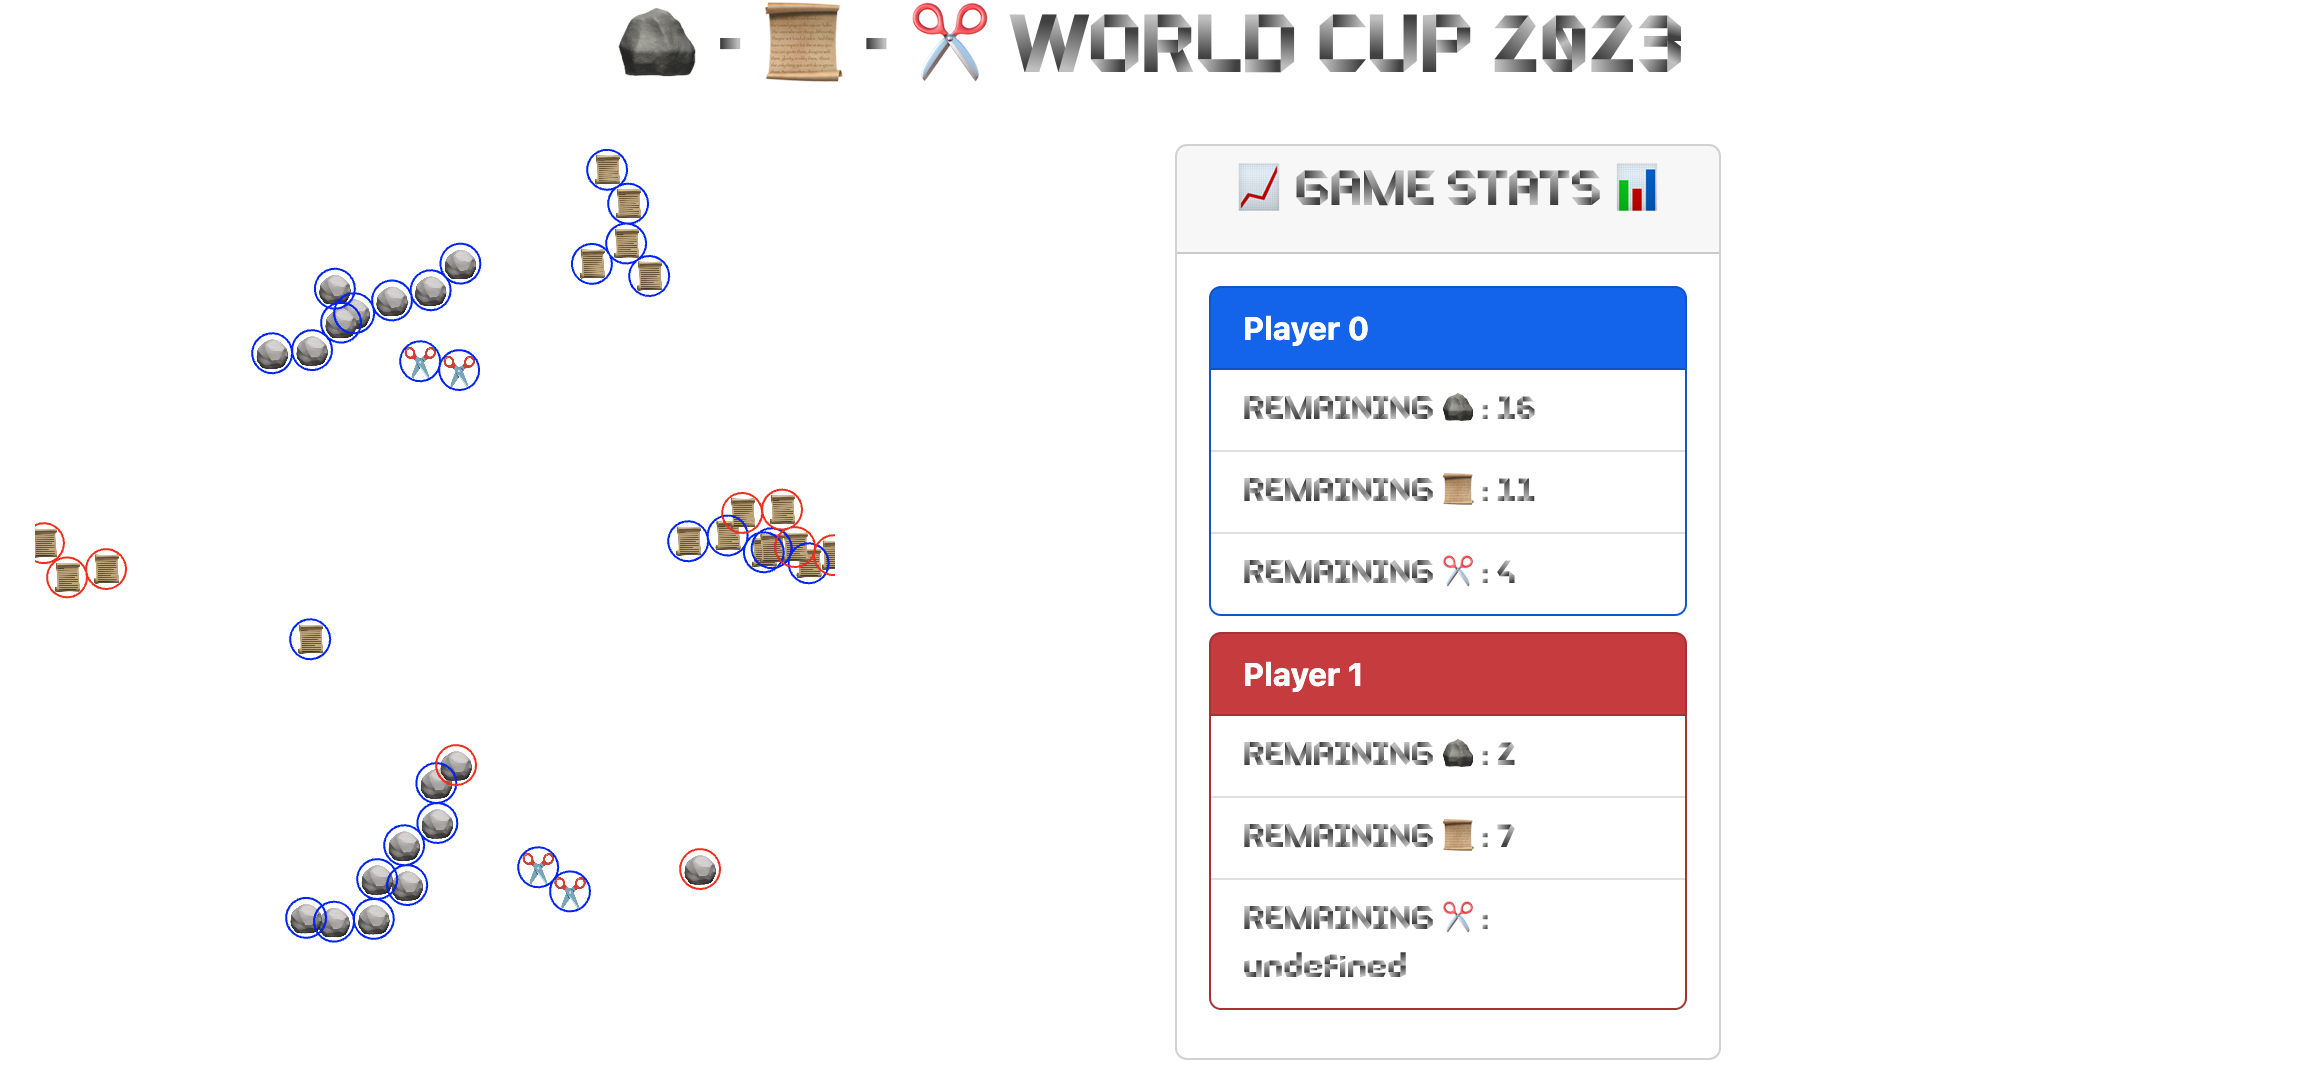
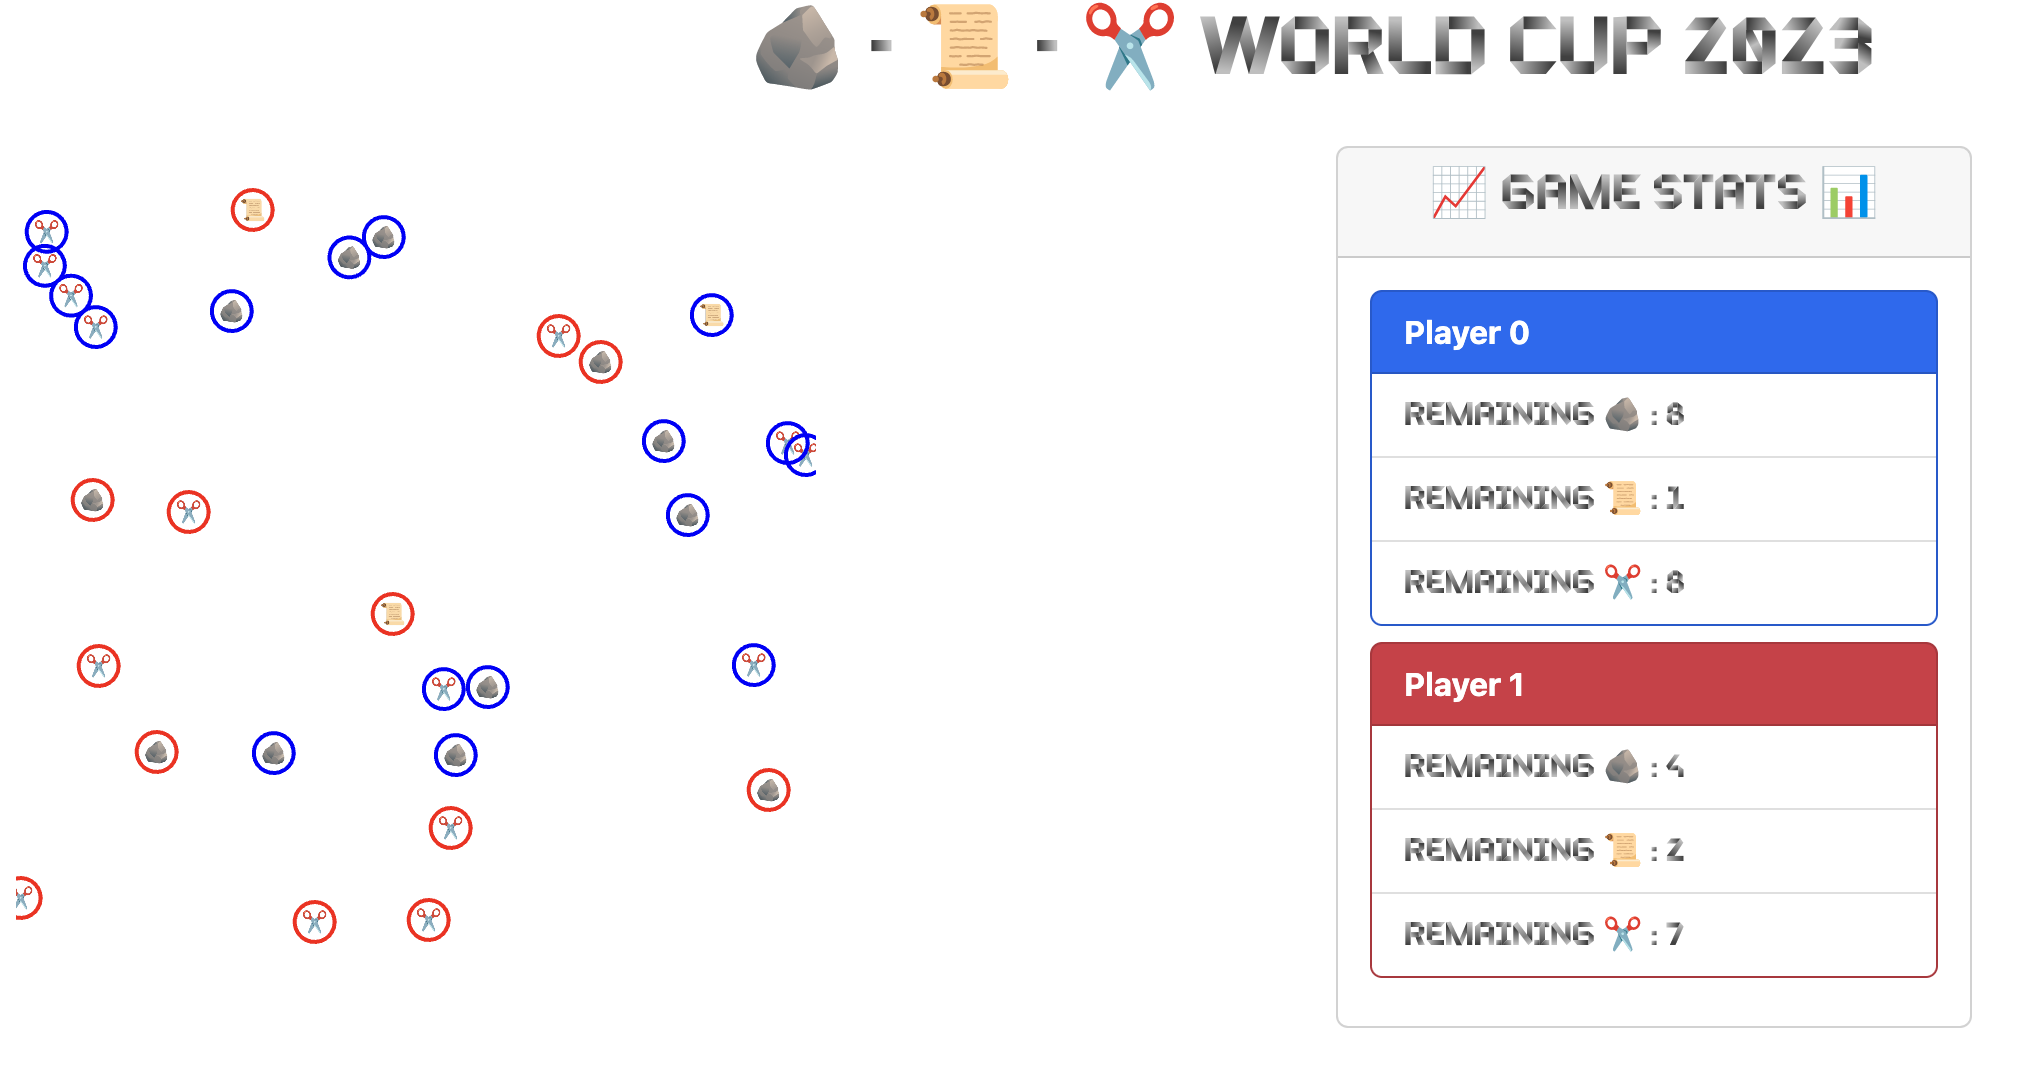
Updated README, added debug mode, changed screenshot, fixed undefined bug in game stats

diff --git a/static/main.js b/static/main.js
@@ -55,18 +55,18 @@ function game_stats_handler() {
     let playerCard = `<div id=card-${playerId} class="card ${cardClasses[i]} text-white mb-2">
         <div class="card-header"><strong>Player ${playerId}</strong></div>
         <ul class="list-group list-group-flush text-primary">
-          <li class="list-group-item comic-font">REMAINING <span class="emoji-font">🪨</span> : <span id="card-${playerId}-rocks">${counts["0"]}</span></li>
-          <li class="list-group-item comic-font">REMAINING <span class="emoji-font">📜</span> : <span id="card-${playerId}-papers">${counts["1"]}</span></li>
-          <li class="list-group-item comic-font">REMAINING <span class="emoji-font">✂</span> : <span id="card-${playerId}-scissors">${counts["2"]}</span></li>
+          <li class="list-group-item comic-font">REMAINING <span class="emoji-font">🪨</span> : <span id="card-${playerId}-rocks">${counts["0"] == undefined ? 0 : counts["0"]}</span></li>
+          <li class="list-group-item comic-font">REMAINING <span class="emoji-font">📜</span> : <span id="card-${playerId}-papers">${counts["1"] == undefined ? 0 : counts["1"]}</span></li>
+          <li class="list-group-item comic-font">REMAINING <span class="emoji-font">✂</span> : <span id="card-${playerId}-scissors">${counts["2"] == undefined ? 0 : counts["2"]}</span></li>
         </ul>
       </div>`;
     let cardElement = document.getElementById(`card-${playerId}`);
     if (!cardElement) {
       document.getElementById("game-stats-container").innerHTML += playerCard;
     } else {
-      document.getElementById(`card-${playerId}-rocks`).innerHTML = `${counts["0"]}`;
-      document.getElementById(`card-${playerId}-papers`).innerHTML = `${counts["1"]}`;
-      document.getElementById(`card-${playerId}-scissors`).innerHTML = `${counts["2"]}`;
+      document.getElementById(`card-${playerId}-rocks`).innerHTML = `${counts["0"] == undefined ? 0 : counts["0"]}`;
+      document.getElementById(`card-${playerId}-papers`).innerHTML = `${counts["1"] == undefined ? 0 : counts["1"]}`;
+      document.getElementById(`card-${playerId}-scissors`).innerHTML = `${counts["2"] == undefined ? 0 : counts["2"]}`;
     }
   })
 }

diff --git a/server.py b/server.py
@@ -2,20 +2,25 @@ import asyncio
 import json
 import logging
 import math
+import argparse
 from aiohttp import web
 from random import randint
-# import numpy as np
 from itertools import combinations
 
 logger = logging.getLogger(__name__)
-logger.setLevel(logging.DEBUG)
 handler = logging.StreamHandler()
-handler.setLevel(logging.DEBUG)
 formatter = logging.Formatter('%(asctime)s - %(name)s - %(levelname)s - %(message)s')
 handler.setFormatter(formatter)
+parser = argparse.ArgumentParser()
+parser.add_argument("--debug", action='store_const', const=True)
+if parser.parse_args().debug:
+    logger.setLevel(logging.DEBUG)
+    handler.setLevel(logging.DEBUG)
+else:
+    logger.setLevel(logging.INFO)
+    handler.setLevel(logging.INFO)
 logger.addHandler(handler)
-
-
+    
 class Agent():
     count = 0
     def __init__(self, x, y, r, owner, kind=None):

diff --git a/client/client.py b/client/client.py
@@ -26,7 +26,7 @@ if __name__ == '__main__':
     PLAYER_ID = (f.readline()).decode()[0]
     while True:
         game_state = json.loads(f.readline())
-        print(f'got game state {game_state}')
+        # print(f'got game state {game_state}')
         move = make_move(game_state)
-        print(f'moving to {move}')
+        # print(f'moving to {move}')
         f.write(json.dumps(move).encode() + b'\n')

diff --git a/README.md b/README.md
@@ -110,11 +110,18 @@ from the function suffices to play the game.
   if you see something fishy.**
 * If there are problems with the game, the first place to check is the console output of
   `server.py`.
+* In `server.py` you may also activate richer console output by running the server
+  with the `--debug` flag, i.e. using
+  ```
+  $ python server.py --debug
+  ```
+  It may also help to print the received
+  game state and your response (moves) to the console in your client implementation.
 * Make sure that the format of the returned moves matches the format above.
 * If a client is accidentally disconnected or there is other unwanted behavior it
   is normally necessary to restart the server.
 * If you compile your C++ code on Windows, problems with the TCP sockets may arise.
-  To solve this problem, either do the right thing and install Linux instead of Windows,
+  To solve these problems, either do the right thing and install Linux instead of Windows,
   or just use a UNIX-like compiler such as [MinGW](https://mingw.osdn.io/).
 
 ## Technical Details
